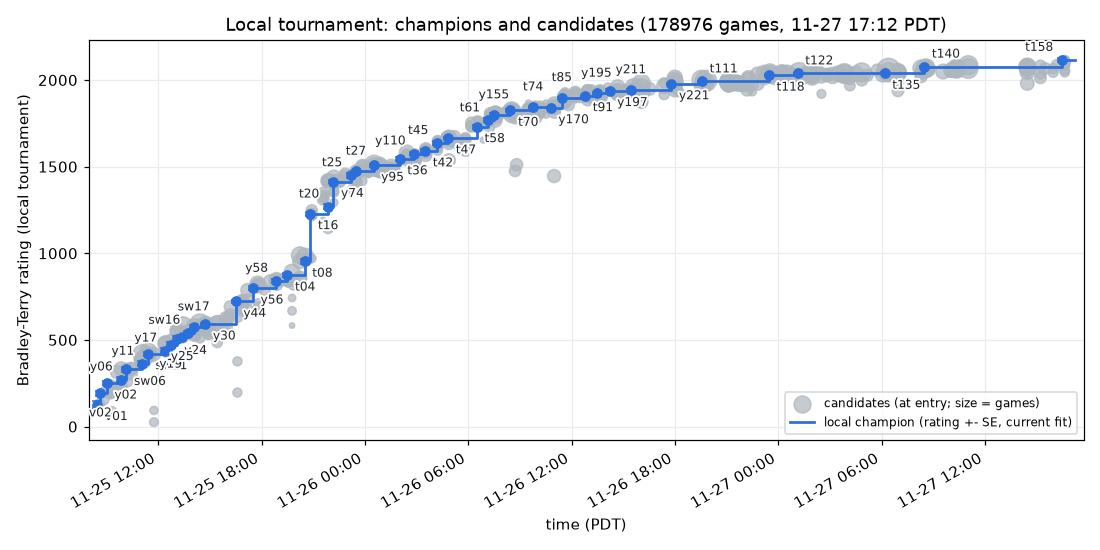
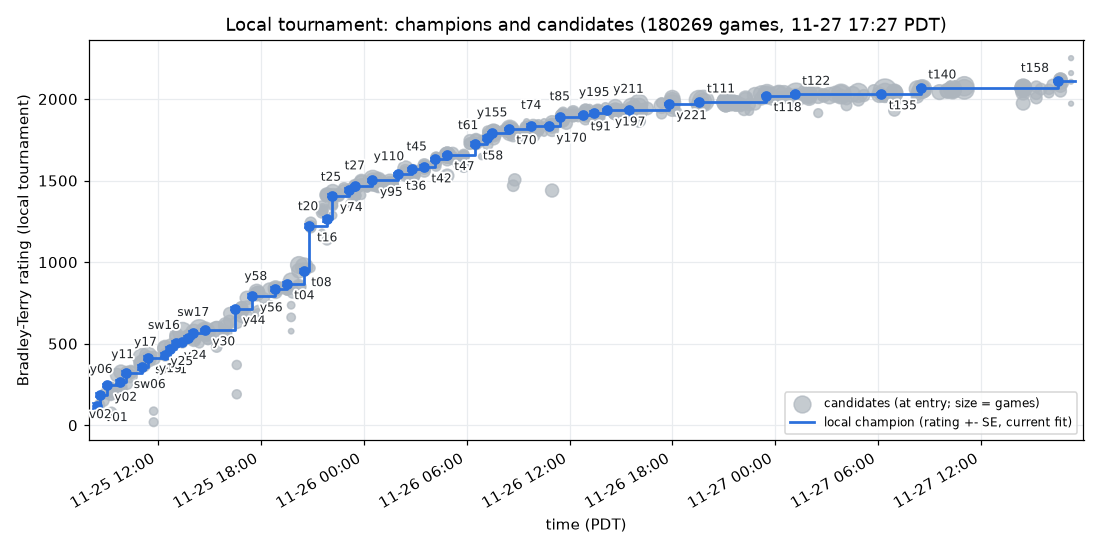
prod: t158 sets the replica record (1783 at #5); slots: r140 and t122 out, t135 in; record.py resolves substitutes for parent/child
Claude-Session: https://claude.ai/code/session_01SzziPSCWtjsjju9cnThDf5

diff --git a/tools/record.py b/tools/record.py
@@ -44,11 +44,12 @@ def peaks():
 
 def references(bot, champ):
     hist = tourney.champ_history()
-    parent = {h['bot']: h.get('base', '') for h in hist}
-    near = {parent.get(bot)} | {b for b, p in parent.items() if p == bot}
+    C = tourney.canon   # owner #58: a verified substitute is the same bot, so t140 (r140) is t158's parent
+    parent = {C(h['bot']): C(h.get('base', '')) for h in hist}
+    near = {parent.get(C(bot))} | {b for b, p in parent.items() if p == C(bot)}
     pk = peaks()
     ranked = sorted(pk, key=lambda b: (-pk[b][0], pk[b][2]))
-    return [b for b in ranked if b not in (bot, champ) and tourney.canon(b) != champ and b not in near][:2], pk
+    return [b for b in ranked if b not in (bot, champ) and C(b) != champ and C(b) not in near][:2], pk
 
 
 def main():

diff --git a/progress/local-elo.md b/progress/local-elo.md
@@ -1,56 +1,56 @@
 # Local tournament Elo
 
-Bradley-Terry ratings of our own bots in the local tournament (`tools/tourney.py`), all 178976 games in one fit as of 2026-11-27 17:13 PDT, so every point is on the same scale; earlier champions are shown at their current rating, and "Gain" is the rating over the champion it replaced. `tools/tourney.py rank` rewrites this table; `tools/tourney.py chart` also redraws the chart.
+Bradley-Terry ratings of our own bots in the local tournament (`tools/tourney.py`), all 180269 games in one fit as of 2026-11-27 17:33 PDT, so every point is on the same scale; earlier champions are shown at their current rating, and "Gain" is the rating over the champion it replaced. `tools/tourney.py rank` rewrites this table; `tools/tourney.py chart` also redraws the chart.
 
 ![local elo](local-elo.png)
 
 | Champion from (PDT) | Bot | Change on base | Submission | Rating +- SE | Gain | Games |
 |---|---|---|---:|---:|---:|---:|
-| 2026-11-25 08:28 | v01 | foundation bot |  | 127 +- 18 |  | 435 |
-| 2026-11-25 08:39 | v02 | nav wall-follow fix + bytecode guards on v01 | #6 | 192 +- 13 | +65 | 801 |
-| 2026-11-25 09:01 | y02 | paint-heavy tower mix + paint towers upgraded first on v02 | #7 | 251 +- 11 | +59 | 1080 |
-| 2026-11-25 09:49 | y06 | 3 opening soldiers instead of 2 on y02 | #35 | 272 +- 13 | +21 | 700 |
-| 2026-11-25 10:09 | sw06 | no moppers before r80; a third of spawns moppers after (field study 1) on y02 | #36 | 329 +- 12 | +79 | 863 |
-| 2026-11-25 11:04 | y11 | mid-game mix 3 moppers per 6 (soldier mopper splasher mopper soldier mopper) on sw06 | #37 | 362 +- 14 | +33 | 655 |
-| 2026-11-25 11:24 | sw11 | at most 1 helper soldier per ruin (more ruins claimed in parallel) on y11 | #38 | 420 +- 11 | +58 | 1159 |
-| 2026-11-25 12:24 | y17 | sw11 + moppers prefer enemies within r2 25 of our towers (sw12) on sw11 | #39 | 438 +- 12 | +18 | 871 |
-| 2026-11-25 12:44 | y19 | sw11 with soldiers joining an occupied ruin only when adjacent (r2<=2) on y17 | #40 | 473 +- 14 | +35 | 678 |
-| 2026-11-25 13:04 | y24 | y17 with mopper defence widened (DEFEND_R2 36 / bonus 80) on y19 | #41 | 508 +- 13 | +35 | 679 |
-| 2026-11-25 13:24 | y25 | y19 (adjacent-only ruin helping) + y17 tower-defending moppers on y24 | #42 | 517 +- 12 | +9 | 898 |
-| 2026-11-25 13:44 | sw16 | y25 + soldier siege: with no ruin and paint>=80 kite a known enemy tower within r2 64 on y25 | #43 | 542 +- 11 | +24 | 976 |
-| 2026-11-25 14:04 | sw17 | y28 (siege from 50 paint r2 100) + splasher siege (towers weigh 40; walk to known tower within r2 100 at paint>=100) on sw16 | #44 | 575 +- 10 | +33 | 1110 |
-| 2026-11-25 14:44 | y30 | y28 with soldier siege from 30 paint within r2 144 (no splasher siege) on sw17 | #45 | 591 +- 7 | +17 | 2377 |
-| 2026-11-25 16:30 | y44 | study 3 tactic 3 (enemy refill policy): return at 50% paint (soldier 100/splasher 100/mopper 40) + end-of-turn top-up from any adjacent ally tower on y30 | #46 | 722 +- 8 | +131 | 2250 |
-| 2026-11-25 17:30 | y56 | study 3 tactic 4 (tower churn): a drained L1 money tower with intact pattern and an ally adjacent disintegrates at >=2000 chips; adjacent robots re-complete it for a fresh 500 paint on y44 | #47 | 799 +- 10 | +77 | 1320 |
-| 2026-11-25 18:50 | y58 | study 3 tactic 2 (early soldiers paint patterns not coverage): exploring soldiers paint no coverage before r50 on y56 | #48 | 841 +- 11 | +42 | 997 |
-| 2026-11-25 19:30 | t04 | t02 (no coverage painting before r80) + t03 (units wait beside drained money towers and repair their pattern so churn fires; study 3 tactics 2 and 4) on y58 | #49 | 874 +- 11 | +33 | 1065 |
-| 2026-11-25 20:30 | t08 | study 4 2.2 (contested ruins): soldiers skip a ruin with enemy paint in its visible 5x5 (bad for 50 rounds) on t04 | #50 | 954 +- 13 | +80 | 775 |
-| 2026-11-25 20:50 | t16 | t12 (t08 + study 4 2.1 spawn freeze 8 rounds in 20 below 1000+cost) + study 4 2.4 money-first: builds money until 8 towers then paint while paint towers < n/5; paint first only if none (all towers known) on t08 | #51 | 1228 +- 12 | +274 | 1213 |
-| 2026-11-25 21:50 | t20 | study 4 2.3: splashers weight enemy towers 30 (was 12) in the splash score on t16 | #52 | 1270 +- 15 | +41 | 587 |
-| 2026-11-25 22:10 | y74 | unit audit (owner prompt #15): splash-grid bug fix (enemy tiles never scored) + moppers stop once enemy paint is in mop reach; built on t16 on t20 | #53 | 1414 +- 10 | +145 | 1255 |
-| 2026-11-25 23:10 | t25 | unit audit + top teams' unit mix (616 S / 662 X / 701 M): after r80 paint towers cycle soldier-splasher-mopper; money towers keep S M X M S M on y74 | #54 | 1450 +- 13 | +36 | 680 |
-| 2026-11-25 23:30 | t27 | top teams' splasher-heavy late mix pushed further: paint towers cycle soldier-splasher-splasher-mopper after r80 on t25 | #55 | 1473 +- 9 | +23 | 1554 |
-| 2026-11-26 00:30 | y95 | upgrade spare 1200 (was 800): chips stay for new towers longer on t27 | #56 | 1508 +- 9 | +35 | 1822 |
-| 2026-11-26 02:01 | t36 | late SRPs (study 4 2.6 / study 3 tactic 7): soldiers without a ruin build SRPs on the x%4==2 y%4==2 lattice from r100 with chips>=1000; splashers avoid repainting SRP secondary tiles on y95 | #57 | 1545 +- 11 | +37 | 977 |
-| 2026-11-26 02:50 | y110 | money towers upgrade only with 2500 chips beyond the cost+spare (was 1000): chips go to new towers and SRPs on t36 | #58 | 1576 +- 10 | +31 | 1260 |
-| 2026-11-26 03:30 | t42 | study 4 3.1 recovery: with every tower known and no money tower left the next ruin is a money tower on y110 | #59 | 1590 +- 10 | +14 | 1332 |
-| 2026-11-26 04:10 | t45 | study 3 tactic 1: after r40 towers spawn only with 1000 chips beyond the unit's cost (no 600-chip window) on t42 | #60 | 1636 +- 10 | +46 | 1226 |
-| 2026-11-26 04:50 | t47 | study 3 tactic 5: a mopper due in the cycle spawns even below the 1000 reserve when an enemy robot is within d2 20 of the tower on t45 | #61 | 1665 +- 7 | +29 | 2398 |
-| 2026-11-26 06:30 | t58 | study 5 2.3: a splasher that has not splashed for 8 rounds (while able to) explores instead of chasing the nearest non-ally tile on t47 | #62 | 1731 +- 11 | +65 | 1087 |
-| 2026-11-26 07:10 | t61 | study 5 2.1 (softened): money towers for builds 1-5; then one more paint tower per 4 towers on t58 | #63 | 1767 +- 11 | +36 | 938 |
-| 2026-11-26 07:30 | y155 | study 5 2.1 tuned: money towers for builds 1-6; then one more paint tower per 4 towers on t61 | #64 | 1798 +- 9 | +31 | 1615 |
-| 2026-11-26 08:27 | t70 | y155 + splashers weight enemy towers 30 (t68) + 2000+ chips makes the next tower a paint tower (y159) on y155 | #65 | 1825 +- 7 | +27 | 2530 |
-| 2026-11-26 09:47 | t74 | moppers weight enemy paint near ruins 40 (study 6 2.1c) on t70 | #66 | 1844 +- 8 | +19 | 2200 |
-| 2026-11-26 10:47 | y170 | soldiers make the next tower a paint tower at 1500+ chips (t63 tuning; was 2000) on t74 | #67 | 1840 +- 7 | -4 | 2823 |
-| 2026-11-26 11:27 | t85 | study 6 2.2 ruin denial from where the soldier stands: a soldier with no ruin paints empty tiles of a ruin the enemy is building; without walking to it on y170 | #68 | 1897 +- 7 | +58 | 2556 |
-| 2026-11-26 12:47 | t91 | study 7 2.5: moppers ignore ruins under enemy towers when weighting ruin paint on t85 | #69 | 1909 +- 5 | +12 | 5663 |
-| 2026-11-26 13:27 | y195 | study 7 2.1a: explore unseen tiles first; up to 16 random draws on t91 | #70 | 1923 +- 9 | +14 | 1349 |
-| 2026-11-26 14:12 | y197 | ruin denial stops at 2 of our tiles (tuning of study 6 2.2) on y195 | #71 | 1939 +- 7 | +16 | 2235 |
-| 2026-11-26 15:27 | y211 | study 7 2.1a tuned: up to 128 random draws for an unseen explore target (was 16) on y197 | #72 | 1942 +- 6 | +3 | 4141 |
-| 2026-11-26 17:47 | y221 | study 8 2.2 (paint the first tower's pattern on the way in; a second soldier on the first ruin) + explore timeout 90; first champion through the confirmation stage (owner #46) on y211 | #73 | 1978 +- 5 | +36 | 6990 |
-| 2026-11-26 19:34 | t111 | splashers attack enemy paint/money towers from a stand-off tile outside their range (study 8 2.4) on y221 | #74 | 1992 +- 4 | +14 | 7551 |
-| 2026-11-26 23:27 | t118 | study 9 2.1b: a soldier on a blocked pattern with no own mopper or splasher in view gives up after 5 turns (was 25); confirmed +71 +-29 in 153 fresh games on t111 | #75 | 2028 +- 4 | +36 | 15261 |
-| 2026-11-27 01:07 | t122 | study 9 2.4: paint-tower dry flags expire after 10 rounds (was 40) and a flagged tower in sight is re-sensed; confirmed +6 +-19 in 378 fresh games; +16 overall on t118 | #76 | 2038 +- 4 | +10 | 18640 |
-| 2026-11-27 06:10 | t135 | study 10 2.6d: a soldier with no other soldier in view skips the 25-paint pattern mark (the top teams never mark); confirmed +9 +-22 in 262 fresh games; +14 overall on t122 | #77 | 2038 +- 6 | +0 | 5817 |
-| 2026-11-27 08:28 | t140 (now r140, verified identical) | study 11 2.1: free single marks (rc.mark on the 5x5 outer ring) replace the 25-paint pattern mark; marks re-read beside the ruin; confirmed +40 +-23 in 251 fresh games; +30 overall on t135 | #78 | 2077 +- 4 | +39 | 15585 |
-| 2026-11-27 16:27 | t158 | study 12 2.2: moppers hit and run (after acting; step off non-ally paint and away from enemy moppers within d2 8 and towers within d2 9); +40 +-24 over r140 in 217 games; first crowning without the confirmation stage (owner #66) on r140 | #79 | 2116 +- 10 | +39 | 1272 |
+| 2026-11-25 08:28 | v01 | foundation bot |  | 120 +- 18 |  | 435 |
+| 2026-11-25 08:39 | v02 | nav wall-follow fix + bytecode guards on v01 | #6 | 185 +- 13 | +65 | 801 |
+| 2026-11-25 09:01 | y02 | paint-heavy tower mix + paint towers upgraded first on v02 | #7 | 244 +- 11 | +59 | 1080 |
+| 2026-11-25 09:49 | y06 | 3 opening soldiers instead of 2 on y02 | #35 | 265 +- 13 | +21 | 700 |
+| 2026-11-25 10:09 | sw06 | no moppers before r80; a third of spawns moppers after (field study 1) on y02 | #36 | 323 +- 12 | +79 | 863 |
+| 2026-11-25 11:04 | y11 | mid-game mix 3 moppers per 6 (soldier mopper splasher mopper soldier mopper) on sw06 | #37 | 356 +- 14 | +33 | 655 |
+| 2026-11-25 11:24 | sw11 | at most 1 helper soldier per ruin (more ruins claimed in parallel) on y11 | #38 | 414 +- 11 | +58 | 1159 |
+| 2026-11-25 12:24 | y17 | sw11 + moppers prefer enemies within r2 25 of our towers (sw12) on sw11 | #39 | 432 +- 12 | +18 | 871 |
+| 2026-11-25 12:44 | y19 | sw11 with soldiers joining an occupied ruin only when adjacent (r2<=2) on y17 | #40 | 467 +- 14 | +35 | 678 |
+| 2026-11-25 13:04 | y24 | y17 with mopper defence widened (DEFEND_R2 36 / bonus 80) on y19 | #41 | 501 +- 13 | +35 | 679 |
+| 2026-11-25 13:24 | y25 | y19 (adjacent-only ruin helping) + y17 tower-defending moppers on y24 | #42 | 511 +- 12 | +9 | 898 |
+| 2026-11-25 13:44 | sw16 | y25 + soldier siege: with no ruin and paint>=80 kite a known enemy tower within r2 64 on y25 | #43 | 535 +- 11 | +24 | 976 |
+| 2026-11-25 14:04 | sw17 | y28 (siege from 50 paint r2 100) + splasher siege (towers weigh 40; walk to known tower within r2 100 at paint>=100) on sw16 | #44 | 568 +- 10 | +33 | 1110 |
+| 2026-11-25 14:44 | y30 | y28 with soldier siege from 30 paint within r2 144 (no splasher siege) on sw17 | #45 | 585 +- 7 | +17 | 2377 |
+| 2026-11-25 16:30 | y44 | study 3 tactic 3 (enemy refill policy): return at 50% paint (soldier 100/splasher 100/mopper 40) + end-of-turn top-up from any adjacent ally tower on y30 | #46 | 716 +- 8 | +131 | 2250 |
+| 2026-11-25 17:30 | y56 | study 3 tactic 4 (tower churn): a drained L1 money tower with intact pattern and an ally adjacent disintegrates at >=2000 chips; adjacent robots re-complete it for a fresh 500 paint on y44 | #47 | 793 +- 10 | +77 | 1320 |
+| 2026-11-25 18:50 | y58 | study 3 tactic 2 (early soldiers paint patterns not coverage): exploring soldiers paint no coverage before r50 on y56 | #48 | 834 +- 11 | +42 | 997 |
+| 2026-11-25 19:30 | t04 | t02 (no coverage painting before r80) + t03 (units wait beside drained money towers and repair their pattern so churn fires; study 3 tactics 2 and 4) on y58 | #49 | 867 +- 11 | +33 | 1065 |
+| 2026-11-25 20:30 | t08 | study 4 2.2 (contested ruins): soldiers skip a ruin with enemy paint in its visible 5x5 (bad for 50 rounds) on t04 | #50 | 947 +- 13 | +80 | 775 |
+| 2026-11-25 20:50 | t16 | t12 (t08 + study 4 2.1 spawn freeze 8 rounds in 20 below 1000+cost) + study 4 2.4 money-first: builds money until 8 towers then paint while paint towers < n/5; paint first only if none (all towers known) on t08 | #51 | 1222 +- 12 | +274 | 1213 |
+| 2026-11-25 21:50 | t20 | study 4 2.3: splashers weight enemy towers 30 (was 12) in the splash score on t16 | #52 | 1263 +- 15 | +41 | 587 |
+| 2026-11-25 22:10 | y74 | unit audit (owner prompt #15): splash-grid bug fix (enemy tiles never scored) + moppers stop once enemy paint is in mop reach; built on t16 on t20 | #53 | 1408 +- 10 | +145 | 1255 |
+| 2026-11-25 23:10 | t25 | unit audit + top teams' unit mix (616 S / 662 X / 701 M): after r80 paint towers cycle soldier-splasher-mopper; money towers keep S M X M S M on y74 | #54 | 1444 +- 13 | +36 | 680 |
+| 2026-11-25 23:30 | t27 | top teams' splasher-heavy late mix pushed further: paint towers cycle soldier-splasher-splasher-mopper after r80 on t25 | #55 | 1466 +- 9 | +23 | 1554 |
+| 2026-11-26 00:30 | y95 | upgrade spare 1200 (was 800): chips stay for new towers longer on t27 | #56 | 1501 +- 9 | +35 | 1822 |
+| 2026-11-26 02:01 | t36 | late SRPs (study 4 2.6 / study 3 tactic 7): soldiers without a ruin build SRPs on the x%4==2 y%4==2 lattice from r100 with chips>=1000; splashers avoid repainting SRP secondary tiles on y95 | #57 | 1538 +- 11 | +37 | 977 |
+| 2026-11-26 02:50 | y110 | money towers upgrade only with 2500 chips beyond the cost+spare (was 1000): chips go to new towers and SRPs on t36 | #58 | 1569 +- 10 | +31 | 1260 |
+| 2026-11-26 03:30 | t42 | study 4 3.1 recovery: with every tower known and no money tower left the next ruin is a money tower on y110 | #59 | 1583 +- 10 | +14 | 1332 |
+| 2026-11-26 04:10 | t45 | study 3 tactic 1: after r40 towers spawn only with 1000 chips beyond the unit's cost (no 600-chip window) on t42 | #60 | 1630 +- 10 | +46 | 1226 |
+| 2026-11-26 04:50 | t47 | study 3 tactic 5: a mopper due in the cycle spawns even below the 1000 reserve when an enemy robot is within d2 20 of the tower on t45 | #61 | 1659 +- 7 | +29 | 2398 |
+| 2026-11-26 06:30 | t58 | study 5 2.3: a splasher that has not splashed for 8 rounds (while able to) explores instead of chasing the nearest non-ally tile on t47 | #62 | 1724 +- 11 | +65 | 1087 |
+| 2026-11-26 07:10 | t61 | study 5 2.1 (softened): money towers for builds 1-5; then one more paint tower per 4 towers on t58 | #63 | 1760 +- 11 | +36 | 938 |
+| 2026-11-26 07:30 | y155 | study 5 2.1 tuned: money towers for builds 1-6; then one more paint tower per 4 towers on t61 | #64 | 1791 +- 9 | +31 | 1615 |
+| 2026-11-26 08:27 | t70 | y155 + splashers weight enemy towers 30 (t68) + 2000+ chips makes the next tower a paint tower (y159) on y155 | #65 | 1818 +- 7 | +27 | 2530 |
+| 2026-11-26 09:47 | t74 | moppers weight enemy paint near ruins 40 (study 6 2.1c) on t70 | #66 | 1837 +- 8 | +19 | 2200 |
+| 2026-11-26 10:47 | y170 | soldiers make the next tower a paint tower at 1500+ chips (t63 tuning; was 2000) on t74 | #67 | 1833 +- 7 | -4 | 2823 |
+| 2026-11-26 11:27 | t85 | study 6 2.2 ruin denial from where the soldier stands: a soldier with no ruin paints empty tiles of a ruin the enemy is building; without walking to it on y170 | #68 | 1890 +- 7 | +58 | 2556 |
+| 2026-11-26 12:47 | t91 | study 7 2.5: moppers ignore ruins under enemy towers when weighting ruin paint on t85 | #69 | 1902 +- 5 | +12 | 5663 |
+| 2026-11-26 13:27 | y195 | study 7 2.1a: explore unseen tiles first; up to 16 random draws on t91 | #70 | 1916 +- 9 | +14 | 1349 |
+| 2026-11-26 14:12 | y197 | ruin denial stops at 2 of our tiles (tuning of study 6 2.2) on y195 | #71 | 1932 +- 7 | +16 | 2235 |
+| 2026-11-26 15:27 | y211 | study 7 2.1a tuned: up to 128 random draws for an unseen explore target (was 16) on y197 | #72 | 1935 +- 6 | +3 | 4141 |
+| 2026-11-26 17:47 | y221 | study 8 2.2 (paint the first tower's pattern on the way in; a second soldier on the first ruin) + explore timeout 90; first champion through the confirmation stage (owner #46) on y211 | #73 | 1971 +- 5 | +36 | 6990 |
+| 2026-11-26 19:34 | t111 | splashers attack enemy paint/money towers from a stand-off tile outside their range (study 8 2.4) on y221 | #74 | 1985 +- 4 | +14 | 7551 |
+| 2026-11-26 23:27 | t118 | study 9 2.1b: a soldier on a blocked pattern with no own mopper or splasher in view gives up after 5 turns (was 25); confirmed +71 +-29 in 153 fresh games on t111 | #75 | 2020 +- 4 | +36 | 15379 |
+| 2026-11-27 01:07 | t122 | study 9 2.4: paint-tower dry flags expire after 10 rounds (was 40) and a flagged tower in sight is re-sensed; confirmed +6 +-19 in 378 fresh games; +16 overall on t118 | #76 | 2032 +- 4 | +11 | 18748 |
+| 2026-11-27 06:10 | t135 | study 10 2.6d: a soldier with no other soldier in view skips the 25-paint pattern mark (the top teams never mark); confirmed +9 +-22 in 262 fresh games; +14 overall on t122 | #77 | 2032 +- 6 | -0 | 5817 |
+| 2026-11-27 08:28 | t140 (now r140, verified identical) | study 11 2.1: free single marks (rc.mark on the 5x5 outer ring) replace the 25-paint pattern mark; marks re-read beside the ruin; confirmed +40 +-23 in 251 fresh games; +30 overall on t135 | #78 | 2071 +- 4 | +39 | 15707 |
+| 2026-11-27 16:27 | t158 | study 12 2.2: moppers hit and run (after acting; step off non-ally paint and away from enemy moppers within d2 8 and towers within d2 9); +40 +-24 over r140 in 217 games; first crowning without the confirmation stage (owner #66) on r140 | #79 | 2111 +- 8 | +41 | 1801 |
